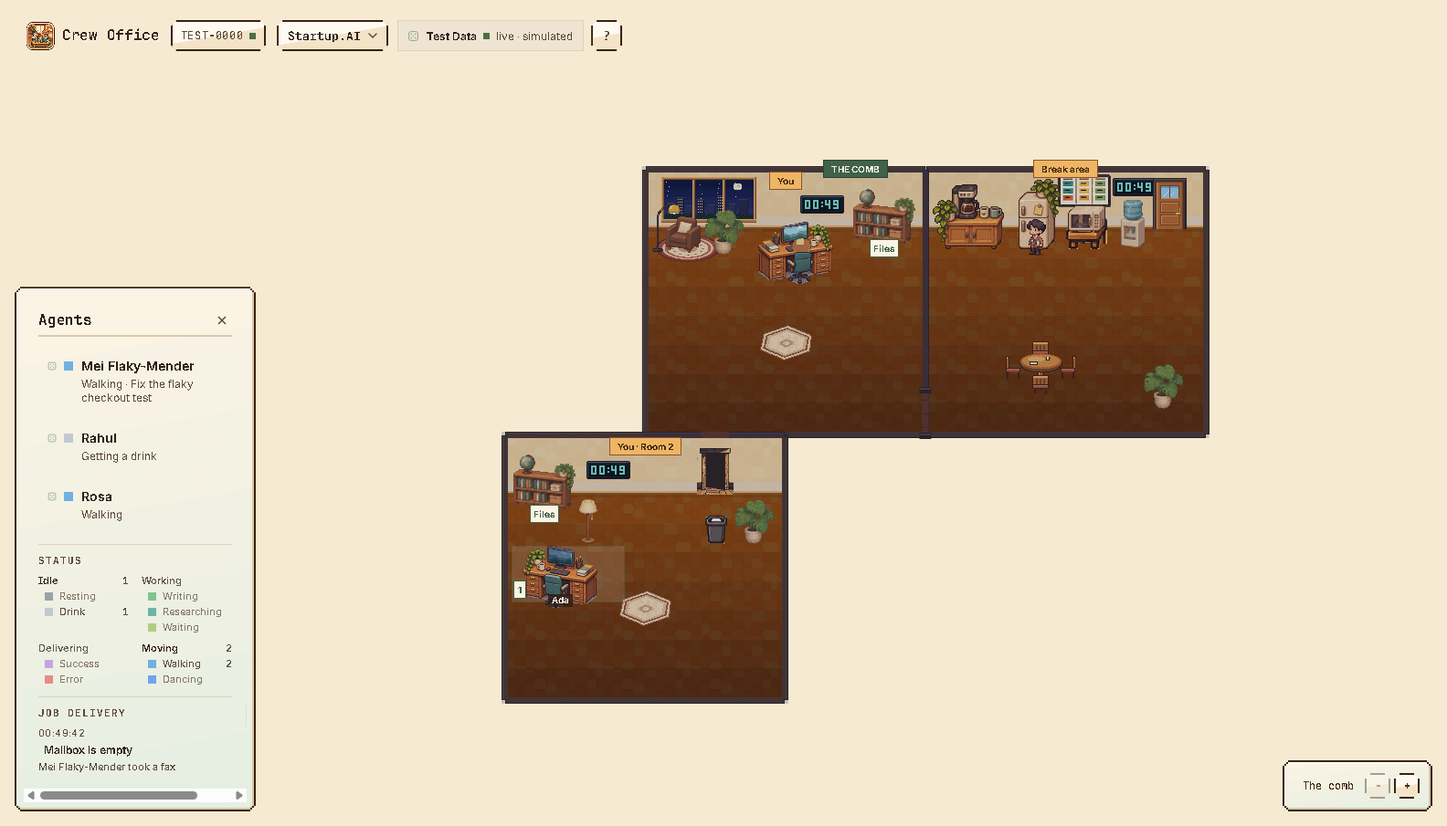
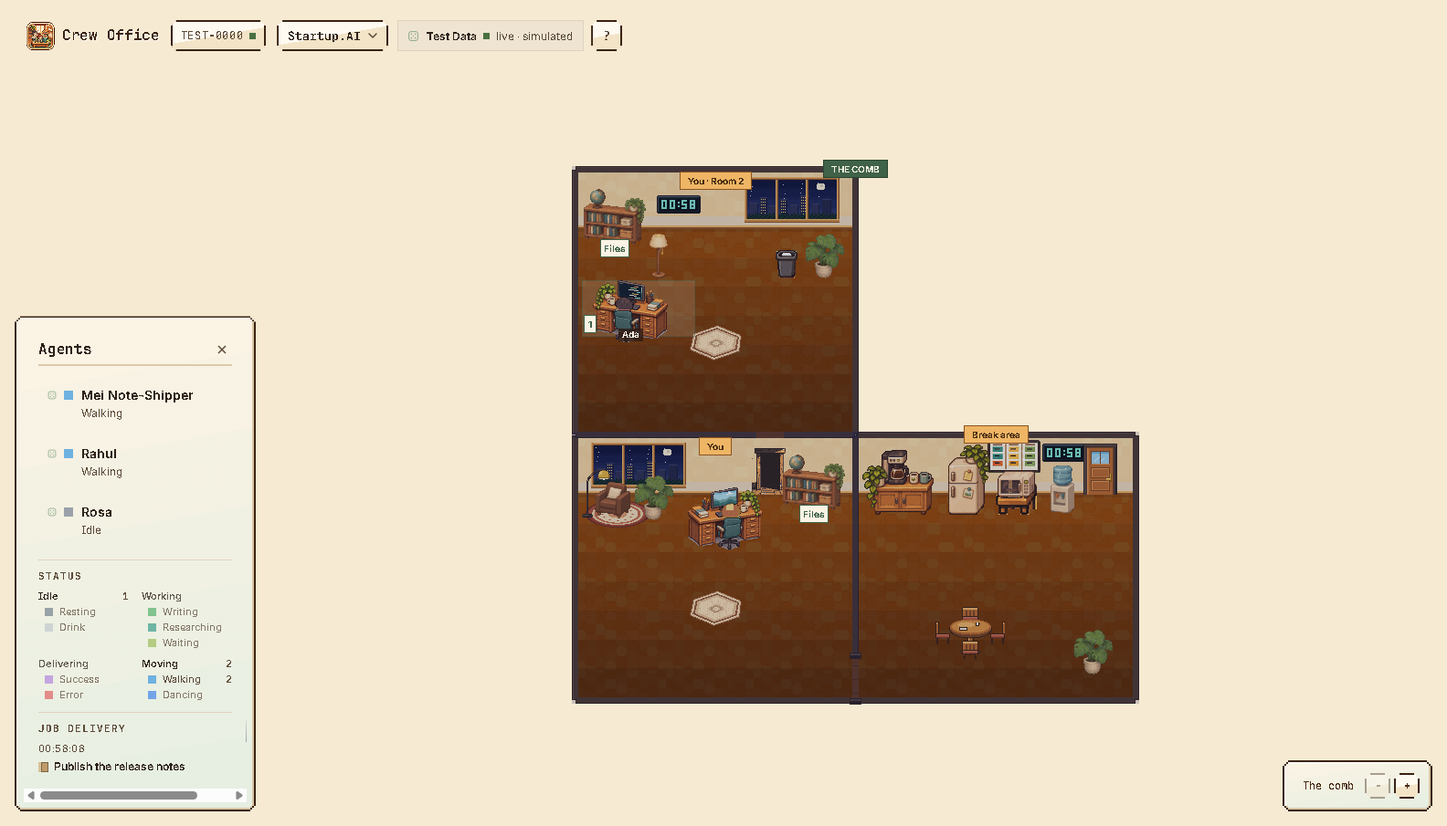
Comb: pack rooms into a solid block on a plain grid
Each new room takes the free cell sharing a wall with the most rooms,
so the comb grows 2x2, 2x3, 3x3 like an office floor instead of
hanging rooms off half-offset rows.

diff --git a/src/office2d/comb.js b/src/office2d/comb.js
@@ -1,54 +1,56 @@
 // The comb: a room for every agent. No drawing here, so the rules can be tested on their own.
 //
 // The usual layout gives a player a column of four-desk rooms and fills them in turn. The comb
-// instead gives every agent who joins a room of their own, and the rooms tile together the way the
-// cells of a honeycomb do: rows of rooms sharing their walls, every other row shifted along by half
-// a room, so each room touches up to six others. The player's own room is in the middle, the break
-// room beside it, and agents' rooms ring outwards from there in the order they arrived. Somebody
-// leaving closes the gap, as everybody after them moves one cell inwards; the view eases rooms from
-// where they were to where they are now, so the comb grows and shrinks rather than jumping.
+// instead gives every agent who joins a room of their own, and packs the rooms together in a block,
+// every room sharing whole walls with its neighbours and none left hanging off a corner. The
+// player's own room and the break room are side by side in the middle, and each new room goes in
+// the free place that touches the most rooms already there, so the block stays as close to square
+// as it can. Somebody leaving closes the gap, as everybody after them moves one place inwards; the
+// view eases rooms from where they were to where they are now, so the comb grows and shrinks
+// rather than jumping.
 //
 // A subagent has no room of its own: it sits in its parent's, at the next desk. A room has four
-// desks, so a parent with more than three subagents at once gets an annexe, the very next cell.
+// desks, so a parent with more than three subagents at once gets an annexe, the very next place.
 
 import { BORDER, INNER_W, ROOM_H, ROOM_W, STEP_X, STEP_Y } from './floor-plan.js';
 
 export const DESKS_PER_ROOM = 4;
 
-// The six ways out of a hex, in axial coordinates, going round.
-const DIRECTIONS = [[1, 0], [1, -1], [0, -1], [-1, 0], [-1, 1], [0, 1]];
-
-/** Axial hex coordinates to a row and a column, with odd rows shifted half a room to the right. */
-const toCell = (q, r) => ({ col: q + (r - (r & 1)) / 2, row: r });
+/** The break room's cell: straight to the right of the player's room. */
+const BREAK_CELL = { col: 1, row: 0 };
+const SIDES = [[1, 0], [-1, 0], [0, 1], [0, -1]];
 
 /**
- * The first `count` cells of the comb, from the middle outwards a ring at a time, each ring walked
- * round in order so one cell is always beside the one before it.
+ * The first `count` cells of the comb, the player's room first. Each next one is the free cell
+ * sharing a wall with the most cells taken so far, the break room's included; a tie goes to the
+ * one nearest the middle of the two, then to the higher row, then to the left. The order never
+ * depends on `count`, so a comb of n rooms is always the first n of a bigger one.
  */
 export function combCells(count) {
   const cells = [];
   if (count <= 0) return cells;
-  cells.push(toCell(0, 0));
-  for (let radius = 1; cells.length < count; radius++) {
-    let q = DIRECTIONS[4][0] * radius;
-    let r = DIRECTIONS[4][1] * radius;
-    for (let side = 0; side < 6 && cells.length < count; side++) {
-      for (let step = 0; step < radius && cells.length < count; step++) {
-        cells.push(toCell(q, r));
-        q += DIRECTIONS[side][0];
-        r += DIRECTIONS[side][1];
+  const key = (c) => `${c.col},${c.row}`;
+  const taken = new Set([key(BREAK_CELL)]);
+  const take = (c) => { cells.push(c); taken.add(key(c)); };
+  take({ col: 0, row: 0 });
+  while (cells.length < count) {
+    const free = new Map();
+    for (const c of [...cells, BREAK_CELL]) {
+      for (const [dc, dr] of SIDES) {
+        const n = { col: c.col + dc, row: c.row + dr };
+        if (!taken.has(key(n))) free.set(key(n), n);
       }
     }
+    const touching = (c) => SIDES.filter(([dc, dr]) => taken.has(key({ col: c.col + dc, row: c.row + dr }))).length;
+    const distance = (c) => Math.hypot(c.col - 0.5, c.row * (STEP_Y / STEP_X));
+    const best = [...free.values()].sort((a, b) => touching(b) - touching(a) || distance(a) - distance(b) || a.row - b.row || a.col - b.col)[0];
+    take(best);
   }
   return cells;
 }
 
 /** Where a cell's room stands, before the comb is moved to start at nought. */
-export const cellOrigin = ({ col, row }) => ({ x: col * STEP_X + ((row & 1) ? STEP_X / 2 : 0), y: row * STEP_Y });
-
-/** The break room's cell: straight to the right of the player's room. */
-const BREAK_CELL = { col: 1, row: 0 };
-const sameCell = (a, b) => a.col === b.col && a.row === b.row;
+export const cellOrigin = ({ col, row }) => ({ x: col * STEP_X, y: row * STEP_Y });
 
 /**
  * Who has which room, kept in the order they arrived. `sync` takes everybody here now and answers
@@ -122,7 +124,7 @@ export function createCombAllocator() {
  * @param {Array<object>} rooms  in order, as `sync` gives them
  */
 export function placeComb(rooms) {
-  const cells = combCells(rooms.length + 1).filter((c) => !sameCell(c, BREAK_CELL)).slice(0, rooms.length);
+  const cells = combCells(rooms.length);
   const placed = rooms.map((room, i) => ({ ...room, cell: cells[i], ...cellOrigin(cells[i]) }));
   const breakAt = cellOrigin(BREAK_CELL);
   const minX = Math.min(breakAt.x, ...placed.map((r) => r.x));
@@ -144,8 +146,8 @@ export function placeComb(rooms) {
 
 /**
  * Which rooms share a wall, and where a way through it could go. Rooms side by side in a row share
- * a whole wall and get a door at floor level, like the usual layout's. A room and one in the row
- * behind it share only part of a wall, so the way through goes somewhere along that part.
+ * a whole wall and get a door at floor level, like the usual layout's. A room and the one behind it
+ * get a doorway somewhere along the wall they share, wherever it is clear on both sides.
  *
  * @param {Array<{key: string, cell: {col: number, row: number}, x: number, y: number}>} cells
  */

diff --git a/docs/site/developer/architecture.html b/docs/site/developer/architecture.html
@@ -169,7 +169,7 @@
 <p><strong>The office is drawn by <code>src/office2d/view.js</code></strong>, in 2D from one fixed angle, using the art in <code>assets/pixel-art/office/established/</code>, with no WebGL. A camera in that file zooms between one room and a whole floor, and <code>src/office2d/ambient.js</code> sends idle agents to a shared break area, which is only a picture and changes nothing about them. <code>src/office2d/allocation.js</code> gives each bot a workstation: four bots a room, three players a floor, ten bots per player per floor, and one standby desk at most. Agents keep their logic, including their walking in the 3D scene objects under <code>src/scene/</code>, but none of that is rendered, so workers are shown at their desks. The editor and first-person ride are off. The sections below describe the older picture where they mention a camera.</p>
 </blockquote>
 <blockquote>
-<p><strong>The comb layout</strong> is the same view with <code>?layout=comb</code> in the address (<code>combLayoutWanted</code> in <code>view.js</code>, or <code>createOffice2D(canvas, input, { comb: true })</code>). <code>src/office2d/comb.js</code> replaces <code>allocation.js</code> for it: <code>createCombAllocator</code> gives the player a room (number 1, with their desk) and every top-level agent a room of their own, in the order they arrived, with a bot whose <code>parentId</code> is present seated at the next desk in that room and a fifth person spilling into an annexe in the next cell. <code>combCells</code> walks a hex grid ring by ring from the middle and maps it to rows of rooms with every odd row shifted half a room, so each room shares walls with up to six others; the break room always takes the cell to the right of the player's. <code>placeComb</code> returns a plan with the same shape as <code>placeFloor</code>'s plus <code>comb</code>, <code>links</code> and <code>bounds</code>, and <code>combDoorsOf</code> in <code>floor-plan.js</code> puts a floor-level door in every shared side wall and a doorway along every shared stretch of back wall, wherever it is clear on both sides; walking there is the shortest way rather than the lanes. When somebody leaves, everybody after them moves one cell inwards, and <code>easeRooms</code> glides the drawn rooms to their new places. All of it is tested in <code>test/office2d-comb.test.js</code>. Its art is in <code>assets/pixel-art/office/comb/</code>, generated with PixelLab; see <a href="visual-assets.html">visual assets</a>.</p>
+<p><strong>The comb layout</strong> is the same view with <code>?layout=comb</code> in the address (<code>combLayoutWanted</code> in <code>view.js</code>, or <code>createOffice2D(canvas, input, { comb: true })</code>). <code>src/office2d/comb.js</code> replaces <code>allocation.js</code> for it: <code>createCombAllocator</code> gives the player a room (number 1, with their desk) and every top-level agent a room of their own, in the order they arrived, with a bot whose <code>parentId</code> is present seated at the next desk in that room and a fifth person spilling into an annexe in the next cell. <code>combCells</code> packs rooms on a plain grid: the player's room and the break room sit side by side, and each next room takes the free cell sharing a wall with the most cells taken (ties to the nearest the middle), so the comb grows 2×2, 2×3, 3×3 and stays a solid block like an office floor. <code>placeComb</code> returns a plan with the same shape as <code>placeFloor</code>'s plus <code>comb</code>, <code>links</code> and <code>bounds</code>, and <code>combDoorsOf</code> in <code>floor-plan.js</code> puts a floor-level door in every shared side wall and a doorway in every shared back wall, wherever it is clear on both sides; walking there is the shortest way rather than the lanes. When somebody leaves, everybody after them moves one cell inwards, and <code>easeRooms</code> glides the drawn rooms to their new places. All of it is tested in <code>test/office2d-comb.test.js</code>. Its art is in <code>assets/pixel-art/office/comb/</code>, generated with PixelLab; see <a href="visual-assets.html">visual assets</a>.</p>
 </blockquote>
 <p>How a keystroke in a terminal becomes somebody walking across a room, and where the seams are.</p>
 <h2 id="the-pipeline" tabindex="-1">The pipeline</h2>

diff --git a/test/office2d-comb.test.js b/test/office2d-comb.test.js
@@ -7,30 +7,30 @@ import { findPath } from '../src/office2d/walkways.js';
 const bots = (ownerId, count) => Array.from({ length: count }, (_, i) => ({ id: `${ownerId}-${i + 1}`, ownerId, ownerName: ownerId }));
 const keyOf = ({ col, row }) => `${col},${row}`;
 
-// Whether two cells of the comb share a wall: side by side in a row, or overlapping rows.
-function touching(a, b) {
-  const pa = cellOrigin(a);
-  const pb = cellOrigin(b);
-  if (a.row === b.row) return Math.abs(a.col - b.col) === 1;
-  return Math.abs(a.row - b.row) === 1 && Math.abs(pa.x - pb.x) < STEP_X;
-}
+// Whether two cells of the comb share a whole wall.
+const touching = (a, b) => Math.abs(a.col - b.col) + Math.abs(a.row - b.row) === 1;
 
-test('the comb starts in the middle and every new cell touches one already there', () => {
+test('the comb starts in the middle and every new cell shares a wall with one already there, or the break room', () => {
   const cells = combCells(37);
   assert.deepEqual(cells[0], { col: 0, row: 0 });
   assert.equal(new Set(cells.map(keyOf)).size, 37, 'no cell twice');
   for (let i = 1; i < cells.length; i++) {
-    assert.ok(cells.slice(0, i).some((c) => touching(c, cells[i])), `cell ${i} is not beside the comb`);
+    assert.ok([{ col: 1, row: 0 }, ...cells.slice(0, i)].some((c) => touching(c, cells[i])), `cell ${i} is not beside the comb`);
   }
 });
 
-test('the first ring is the six neighbours of the middle', () => {
-  const ring = combCells(7).slice(1);
-  assert.ok(ring.every((c) => touching(c, { col: 0, row: 0 })));
+test('the rooms pack into a block, as near square as it can be', () => {
+  // With the break room, 4 cells make 2 by 2, 6 make 2 by 3, 9 make 3 by 3.
+  for (const [rooms, w, h] of [[3, 2, 2], [5, 2, 3], [8, 3, 3]]) {
+    const all = [...combCells(rooms), { col: 1, row: 0 }];
+    const cols = new Set(all.map((c) => c.col));
+    const rows = new Set(all.map((c) => c.row));
+    assert.deepEqual([cols.size, rows.size].sort(), [w, h].sort(), `${rooms} rooms`);
+  }
 });
 
-test('odd rows are shifted half a room along', () => {
-  assert.deepEqual(cellOrigin({ col: 0, row: 1 }), { x: STEP_X / 2, y: STEP_Y });
+test('rooms stand on a plain grid, a shared wall apart', () => {
+  assert.deepEqual(cellOrigin({ col: 0, row: 1 }), { x: 0, y: STEP_Y });
   assert.deepEqual(cellOrigin({ col: 2, row: 0 }), { x: STEP_X * 2, y: 0 });
 });
 
@@ -87,6 +87,7 @@ test('rooms side by side share a door, and rows share a stretch of wall', () => 
   const plan = placeComb(createCombAllocator().sync(bots('a', 5), [{ id: 'a' }]).rooms);
   const links = combLinks([...plan.rooms, plan.breakRoom]);
   assert.ok(links.some((l) => l.kind === 'side' && l.from === 'a:hub' && l.to === 'break'));
+  assert.ok(links.some((l) => l.kind === 'back'));
   for (const link of links.filter((l) => l.kind === 'back')) assert.ok(link.right - link.left >= 40);
 });
 

diff --git a/docs/site/user/watching.html b/docs/site/user/watching.html
@@ -145,9 +145,9 @@
 <p><strong>The office is now 2D, seen from one fixed angle.</strong> Scroll, use the <strong>+</strong> and <strong>−</strong> buttons or keys, or click a room to zoom between a room and the whole floor, and drag to look around. The camera doesn't turn. Idle agents sometimes stroll about their room or go to the break area, which is only for show and doesn't affect their work. On the way to the break area they keep to the aisle and the walkway along the foot of each room, and they walk around desks and furniture rather than through them. The windows and clock follow the time and weather where the office is hosted. In a hosted office, click a bookshelf to share files with the other players and their agents. You choose your character when you first enter, and click it to change it. First-person view, the scene panel, photos and furniture editing described here are not available in it.</p>
 </blockquote>
 <blockquote>
-<p><strong>A room for every agent.</strong> Add <code>?layout=comb</code> to the end of the office's address to lay it out as a comb instead: your own room in the middle, the break area beside it, and a room of its own for every agent who joins, the rooms fitting together like the cells of a honeycomb. The comb grows a room when an agent arrives and closes up when one leaves, with the rooms gliding into their new places. A subagent, when one is shown, sits at a desk in the room of the agent who started it. Leave the address as it was for the usual layout of four desks to a room.</p>
+<p><strong>A room for every agent.</strong> Add <code>?layout=comb</code> to the end of the office's address to lay it out as a comb instead: your own room in the middle, the break area beside it, and a room of its own for every agent who joins, the rooms packed together wall to wall in one block, like a real office floor. The comb grows a room when an agent arrives and closes up when one leaves, with the rooms gliding into their new places. A subagent, when one is shown, sits at a desk in the room of the agent who started it. Leave the address as it was for the usual layout of four desks to a room.</p>
 </blockquote>
-<img src="../images/comb/comb-7.png" width="1000" alt="The office laid out as a comb with seven agents: the player's room in the middle, the break area to its right, and seven rooms with one desk in use each fitted around them in offset rows, joined by doorways.">
+<img src="../images/comb/comb-7.png" width="1000" alt="The office laid out as a comb with seven agents: the player's room in the middle, the break area to its right, and seven rooms with one desk in use each packed around them in a three-by-three block, joined by doors.">
 <p><em>For anyone looking at the room. Two minutes, no code.</em></p>
 <hr>
 <h2 id="what-you-are-looking-at" tabindex="-1">What you are looking at</h2>

diff --git a/docs/developer/architecture.md b/docs/developer/architecture.md
@@ -2,7 +2,7 @@
 
 > **The office is drawn by `src/office2d/view.js`**, in 2D from one fixed angle, using the art in `assets/pixel-art/office/established/`, with no WebGL. A camera in that file zooms between one room and a whole floor, and `src/office2d/ambient.js` sends idle agents to a shared break area, which is only a picture and changes nothing about them. `src/office2d/allocation.js` gives each bot a workstation: four bots a room, three players a floor, ten bots per player per floor, and one standby desk at most. Agents keep their logic, including their walking in the 3D scene objects under `src/scene/`, but none of that is rendered, so workers are shown at their desks. The editor and first-person ride are off. The sections below describe the older picture where they mention a camera.
 
-> **The comb layout** is the same view with `?layout=comb` in the address (`combLayoutWanted` in `view.js`, or `createOffice2D(canvas, input, { comb: true })`). `src/office2d/comb.js` replaces `allocation.js` for it: `createCombAllocator` gives the player a room (number 1, with their desk) and every top-level agent a room of their own, in the order they arrived, with a bot whose `parentId` is present seated at the next desk in that room and a fifth person spilling into an annexe in the next cell. `combCells` walks a hex grid ring by ring from the middle and maps it to rows of rooms with every odd row shifted half a room, so each room shares walls with up to six others; the break room always takes the cell to the right of the player's. `placeComb` returns a plan with the same shape as `placeFloor`'s plus `comb`, `links` and `bounds`, and `combDoorsOf` in `floor-plan.js` puts a floor-level door in every shared side wall and a doorway along every shared stretch of back wall, wherever it is clear on both sides; walking there is the shortest way rather than the lanes. When somebody leaves, everybody after them moves one cell inwards, and `easeRooms` glides the drawn rooms to their new places. All of it is tested in `test/office2d-comb.test.js`. Its art is in `assets/pixel-art/office/comb/`, generated with PixelLab; see [visual assets](visual-assets.md).
+> **The comb layout** is the same view with `?layout=comb` in the address (`combLayoutWanted` in `view.js`, or `createOffice2D(canvas, input, { comb: true })`). `src/office2d/comb.js` replaces `allocation.js` for it: `createCombAllocator` gives the player a room (number 1, with their desk) and every top-level agent a room of their own, in the order they arrived, with a bot whose `parentId` is present seated at the next desk in that room and a fifth person spilling into an annexe in the next cell. `combCells` packs rooms on a plain grid: the player's room and the break room sit side by side, and each next room takes the free cell sharing a wall with the most cells taken (ties to the nearest the middle), so the comb grows 2×2, 2×3, 3×3 and stays a solid block like an office floor. `placeComb` returns a plan with the same shape as `placeFloor`'s plus `comb`, `links` and `bounds`, and `combDoorsOf` in `floor-plan.js` puts a floor-level door in every shared side wall and a doorway in every shared back wall, wherever it is clear on both sides; walking there is the shortest way rather than the lanes. When somebody leaves, everybody after them moves one cell inwards, and `easeRooms` glides the drawn rooms to their new places. All of it is tested in `test/office2d-comb.test.js`. Its art is in `assets/pixel-art/office/comb/`, generated with PixelLab; see [visual assets](visual-assets.md).
 
 How a keystroke in a terminal becomes somebody walking across a room, and where the seams are.
 

diff --git a/docs/site/developer/architecture.md b/docs/site/developer/architecture.md
@@ -2,7 +2,7 @@
 
 > **The office is drawn by `src/office2d/view.js`**, in 2D from one fixed angle, using the art in `assets/pixel-art/office/established/`, with no WebGL. A camera in that file zooms between one room and a whole floor, and `src/office2d/ambient.js` sends idle agents to a shared break area, which is only a picture and changes nothing about them. `src/office2d/allocation.js` gives each bot a workstation: four bots a room, three players a floor, ten bots per player per floor, and one standby desk at most. Agents keep their logic, including their walking in the 3D scene objects under `src/scene/`, but none of that is rendered, so workers are shown at their desks. The editor and first-person ride are off. The sections below describe the older picture where they mention a camera.
 
-> **The comb layout** is the same view with `?layout=comb` in the address (`combLayoutWanted` in `view.js`, or `createOffice2D(canvas, input, { comb: true })`). `src/office2d/comb.js` replaces `allocation.js` for it: `createCombAllocator` gives the player a room (number 1, with their desk) and every top-level agent a room of their own, in the order they arrived, with a bot whose `parentId` is present seated at the next desk in that room and a fifth person spilling into an annexe in the next cell. `combCells` walks a hex grid ring by ring from the middle and maps it to rows of rooms with every odd row shifted half a room, so each room shares walls with up to six others; the break room always takes the cell to the right of the player's. `placeComb` returns a plan with the same shape as `placeFloor`'s plus `comb`, `links` and `bounds`, and `combDoorsOf` in `floor-plan.js` puts a floor-level door in every shared side wall and a doorway along every shared stretch of back wall, wherever it is clear on both sides; walking there is the shortest way rather than the lanes. When somebody leaves, everybody after them moves one cell inwards, and `easeRooms` glides the drawn rooms to their new places. All of it is tested in `test/office2d-comb.test.js`. Its art is in `assets/pixel-art/office/comb/`, generated with PixelLab; see [visual assets](visual-assets.md).
+> **The comb layout** is the same view with `?layout=comb` in the address (`combLayoutWanted` in `view.js`, or `createOffice2D(canvas, input, { comb: true })`). `src/office2d/comb.js` replaces `allocation.js` for it: `createCombAllocator` gives the player a room (number 1, with their desk) and every top-level agent a room of their own, in the order they arrived, with a bot whose `parentId` is present seated at the next desk in that room and a fifth person spilling into an annexe in the next cell. `combCells` packs rooms on a plain grid: the player's room and the break room sit side by side, and each next room takes the free cell sharing a wall with the most cells taken (ties to the nearest the middle), so the comb grows 2×2, 2×3, 3×3 and stays a solid block like an office floor. `placeComb` returns a plan with the same shape as `placeFloor`'s plus `comb`, `links` and `bounds`, and `combDoorsOf` in `floor-plan.js` puts a floor-level door in every shared side wall and a doorway in every shared back wall, wherever it is clear on both sides; walking there is the shortest way rather than the lanes. When somebody leaves, everybody after them moves one cell inwards, and `easeRooms` glides the drawn rooms to their new places. All of it is tested in `test/office2d-comb.test.js`. Its art is in `assets/pixel-art/office/comb/`, generated with PixelLab; see [visual assets](visual-assets.md).
 
 How a keystroke in a terminal becomes somebody walking across a room, and where the seams are.
 

diff --git a/docs/site/user/watching.md b/docs/site/user/watching.md
@@ -2,9 +2,9 @@
 
 > **The office is now 2D, seen from one fixed angle.** Scroll, use the **+** and **−** buttons or keys, or click a room to zoom between a room and the whole floor, and drag to look around. The camera doesn't turn. Idle agents sometimes stroll about their room or go to the break area, which is only for show and doesn't affect their work. On the way to the break area they keep to the aisle and the walkway along the foot of each room, and they walk around desks and furniture rather than through them. The windows and clock follow the time and weather where the office is hosted. In a hosted office, click a bookshelf to share files with the other players and their agents. You choose your character when you first enter, and click it to change it. First-person view, the scene panel, photos and furniture editing described here are not available in it.
 
-> **A room for every agent.** Add `?layout=comb` to the end of the office's address to lay it out as a comb instead: your own room in the middle, the break area beside it, and a room of its own for every agent who joins, the rooms fitting together like the cells of a honeycomb. The comb grows a room when an agent arrives and closes up when one leaves, with the rooms gliding into their new places. A subagent, when one is shown, sits at a desk in the room of the agent who started it. Leave the address as it was for the usual layout of four desks to a room.
+> **A room for every agent.** Add `?layout=comb` to the end of the office's address to lay it out as a comb instead: your own room in the middle, the break area beside it, and a room of its own for every agent who joins, the rooms packed together wall to wall in one block, like a real office floor. The comb grows a room when an agent arrives and closes up when one leaves, with the rooms gliding into their new places. A subagent, when one is shown, sits at a desk in the room of the agent who started it. Leave the address as it was for the usual layout of four desks to a room.
 
-<img src="../images/comb/comb-7.png" width="1000" alt="The office laid out as a comb with seven agents: the player's room in the middle, the break area to its right, and seven rooms with one desk in use each fitted around them in offset rows, joined by doorways.">
+<img src="../images/comb/comb-7.png" width="1000" alt="The office laid out as a comb with seven agents: the player's room in the middle, the break area to its right, and seven rooms with one desk in use each packed around them in a three-by-three block, joined by doors.">
 
 *For anyone looking at the room. Two minutes, no code.*
 

diff --git a/docs/user/watching.md b/docs/user/watching.md
@@ -2,9 +2,9 @@
 
 > **The office is now 2D, seen from one fixed angle.** Scroll, use the **+** and **−** buttons or keys, or click a room to zoom between a room and the whole floor, and drag to look around. The camera doesn't turn. Idle agents sometimes stroll about their room or go to the break area, which is only for show and doesn't affect their work. On the way to the break area they keep to the aisle and the walkway along the foot of each room, and they walk around desks and furniture rather than through them. The windows and clock follow the time and weather where the office is hosted. In a hosted office, click a bookshelf to share files with the other players and their agents. You choose your character when you first enter, and click it to change it. First-person view, the scene panel, photos and furniture editing described here are not available in it.
 
-> **A room for every agent.** Add `?layout=comb` to the end of the office's address to lay it out as a comb instead: your own room in the middle, the break area beside it, and a room of its own for every agent who joins, the rooms fitting together like the cells of a honeycomb. The comb grows a room when an agent arrives and closes up when one leaves, with the rooms gliding into their new places. A subagent, when one is shown, sits at a desk in the room of the agent who started it. Leave the address as it was for the usual layout of four desks to a room.
+> **A room for every agent.** Add `?layout=comb` to the end of the office's address to lay it out as a comb instead: your own room in the middle, the break area beside it, and a room of its own for every agent who joins, the rooms packed together wall to wall in one block, like a real office floor. The comb grows a room when an agent arrives and closes up when one leaves, with the rooms gliding into their new places. A subagent, when one is shown, sits at a desk in the room of the agent who started it. Leave the address as it was for the usual layout of four desks to a room.
 
-<img src="../images/comb/comb-7.png" width="1000" alt="The office laid out as a comb with seven agents: the player's room in the middle, the break area to its right, and seven rooms with one desk in use each fitted around them in offset rows, joined by doorways.">
+<img src="../images/comb/comb-7.png" width="1000" alt="The office laid out as a comb with seven agents: the player's room in the middle, the break area to its right, and seven rooms with one desk in use each packed around them in a three-by-three block, joined by doors.">
 
 *For anyone looking at the room. Two minutes, no code.*
 
